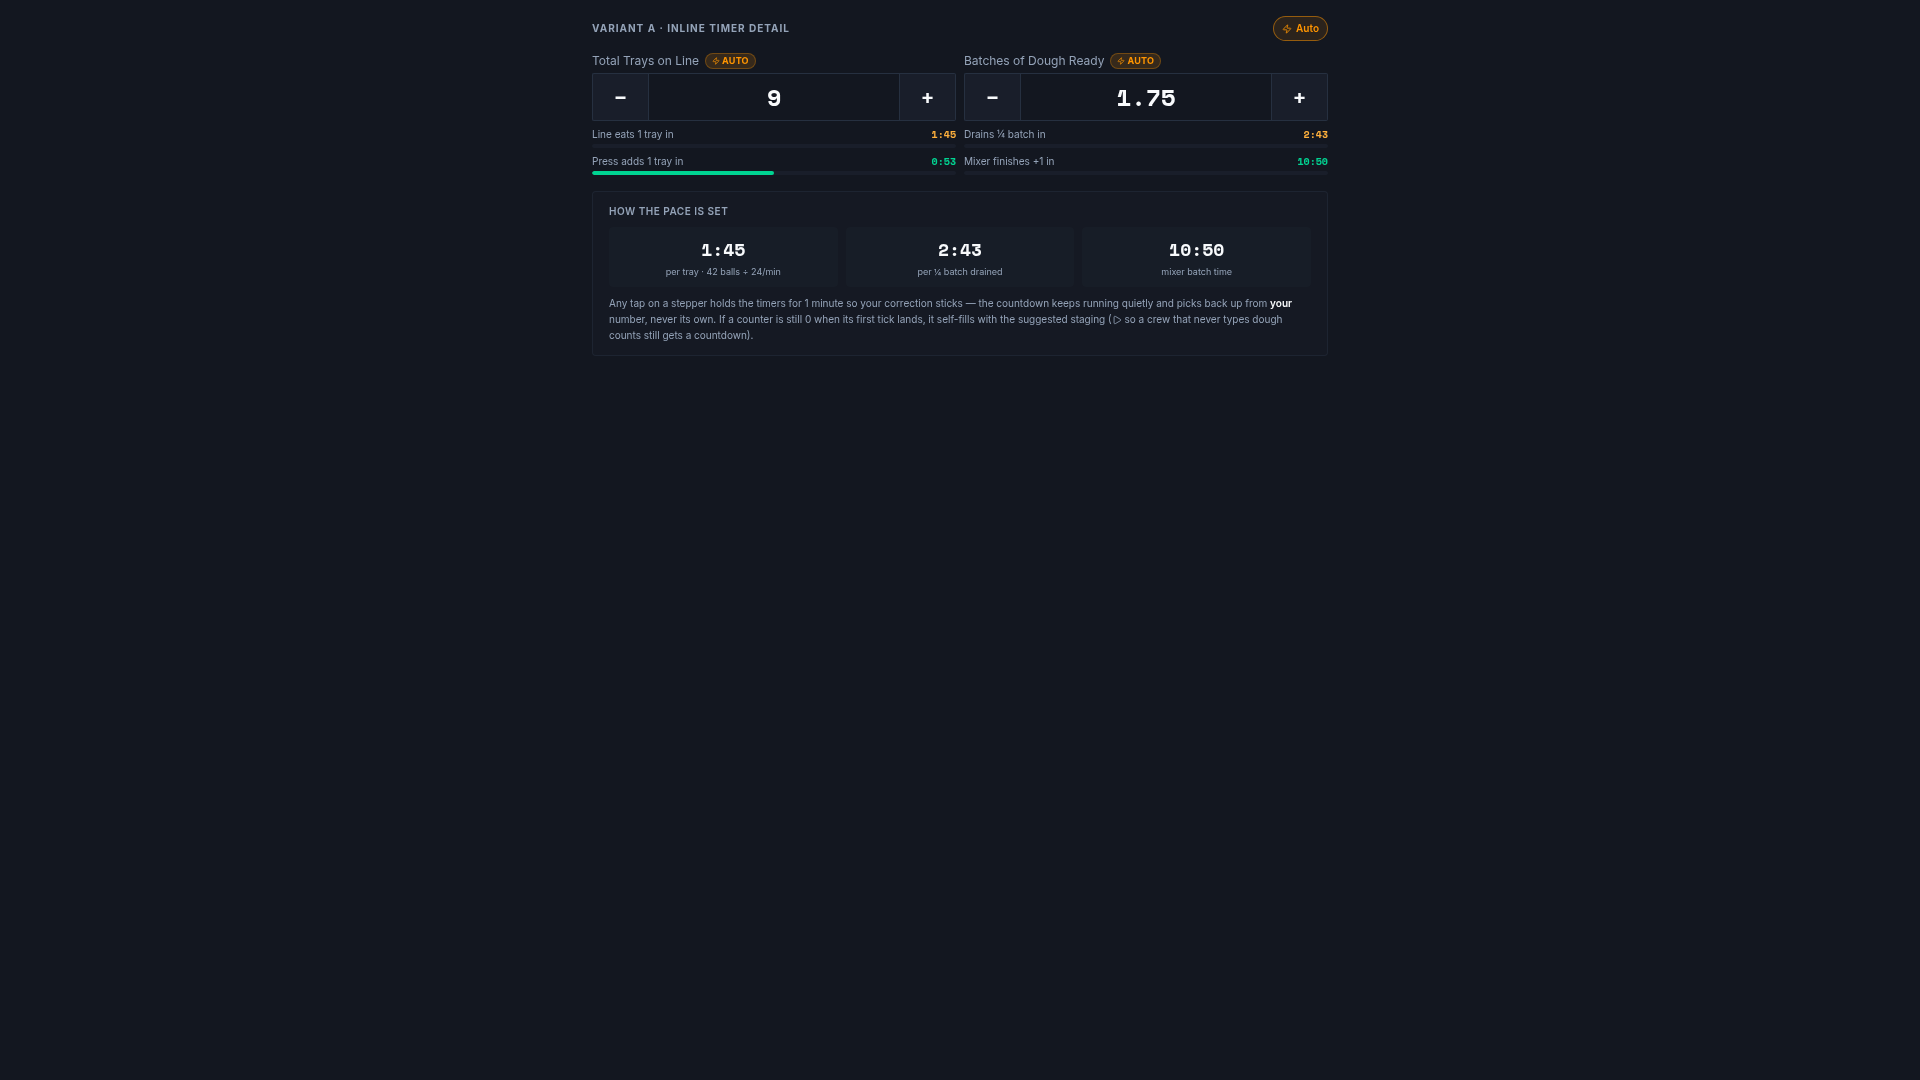
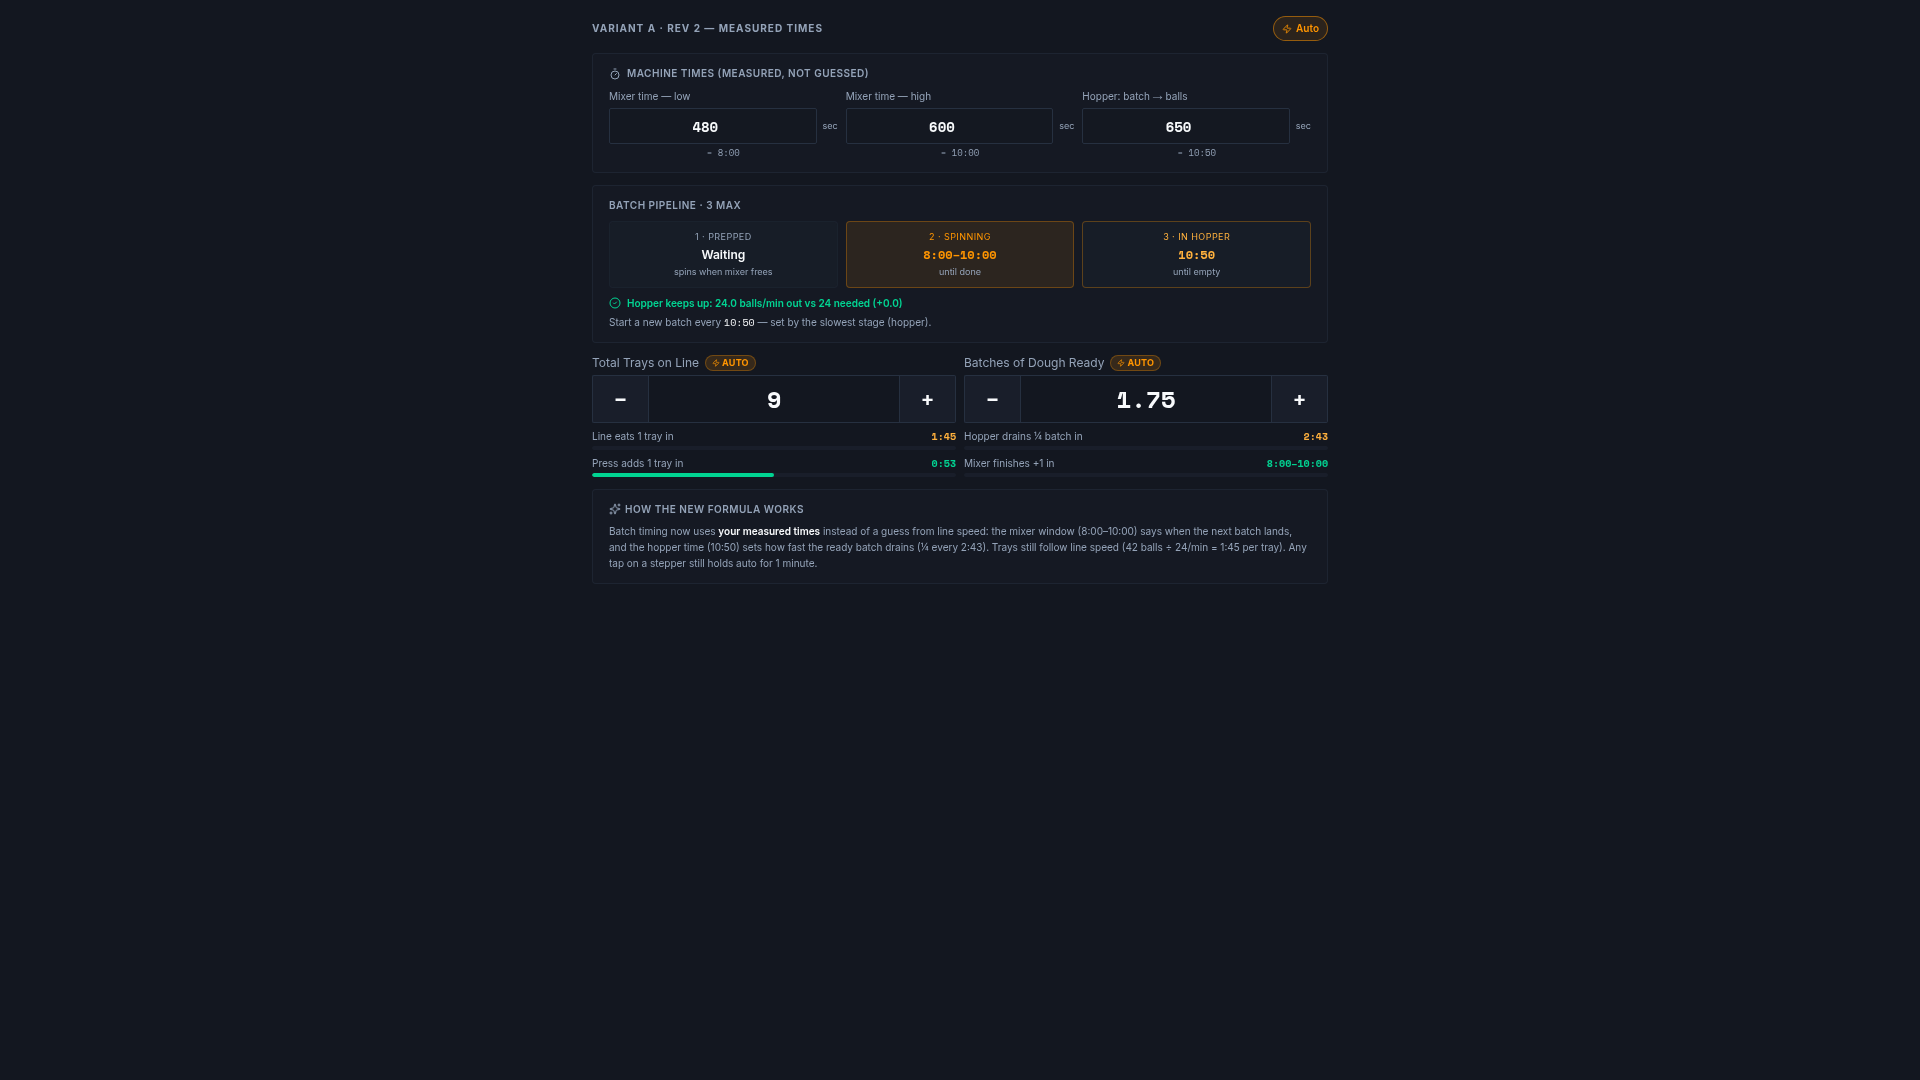
Add measured mixer and hopper times to dough tab timers
Introduce new input fields for mixer low/high and hopper times (in seconds) to improve the accuracy of dough processing calculations and display.

Replit-Commit-Author: Agent
Replit-Commit-Session-Id: 280a9ba2-7370-423b-ad6b-aa0dbc6b3488
Replit-Commit-Checkpoint-Type: full_checkpoint
Replit-Commit-Event-Id: c5127f72-77b3-4420-93dd-f78c3ea0da03
Replit-Commit-Screenshot-Url: https://storage.googleapis.com/screenshot-production-us-central1/de4fa38f-10e1-481d-ab62-4ad238a33ebf/280a9ba2-7370-423b-ad6b-aa0dbc6b3488/rUtaK6M
Replit-Helium-Checkpoint-Created: true

diff --git a/artifacts/mockup-sandbox/src/components/mockups/tab-dough/TimersInline.tsx b/artifacts/mockup-sandbox/src/components/mockups/tab-dough/TimersInline.tsx
@@ -1,21 +1,23 @@
 import { useEffect, useState } from "react";
-import { AlertTriangle, Pause, Play, Sparkles, Zap } from "lucide-react";
+import { CheckCircle2, Pause, Sparkles, Timer, Zap } from "lucide-react";
 import "./_group.css";
 
-/* ── Variant A: Inline Detail ──────────────────────────────────────────────
-   The dough steppers exactly as today, but each auto-tracked counter gets a
-   live countdown strip right underneath it: when the next auto tick lands,
-   what it will do (+1 from the press / −1 eaten by the line), and a thin
-   progress bar filling toward the tick. Cadences use the real engine math:
-   tray tick = perTray/ppm, batch drain = perBatch/ppm/4, mixer = perBatch/ppm. */
+/* ── Variant A (rev 2): Inline Detail + measured mixer/hopper times ────────
+   The dough steppers with live countdown strips, now driven by MEASURED
+   times instead of guesses:
+     • Mixer Time Low / High (seconds) — how long a batch actually spins
+     • Hopper Time (seconds) — how long the hopper takes to turn one batch
+       into doughballs
+   Pipeline is 3 batches max: 1 prepped to spin · 1 spinning · 1 in the
+   hopper being turned into doughballs. Tray cadence stays line-speed based
+   (perTray / ppm). */
 
 const calc = { ppm: 24, perTray: 42, perBatch: 260, traysNeeded: 18, batchesNeeded: 2.4 };
 
 const TRAY_PERIOD_S = (calc.perTray / calc.ppm) * 60; // 105 s
-const BATCH_DRAIN_S = (calc.perBatch / calc.ppm / 4) * 60; // ~162 s (quarter-batch)
-const MIXER_PERIOD_S = (calc.perBatch / calc.ppm) * 60; // ~650 s
 
 function fmtMS(totalSec: number) {
+  if (!Number.isFinite(totalSec)) return "—:—";
   const s = Math.max(0, Math.round(totalSec));
   return `${Math.floor(s / 60)}:${String(s % 60).padStart(2, "0")}`;
 }
@@ -31,11 +33,13 @@ function useNowSec() {
 
 function TickBar({
   label,
+  right,
   secLeft,
   periodSec,
   color,
 }: {
   label: string;
+  right?: string;
   secLeft: number;
   periodSec: number;
   color: string;
@@ -45,7 +49,7 @@ function TickBar({
     <div className="mt-1.5">
       <div className="flex items-center justify-between gap-2">
         <span className="text-[10px] text-muted-foreground">{label}</span>
-        <span className={`text-[10px] font-mono font-semibold tabular-nums ${color}`}>{fmtMS(secLeft)}</span>
+        <span className={`text-[10px] font-mono font-semibold tabular-nums ${color}`}>{right ?? fmtMS(secLeft)}</span>
       </div>
       <div className="h-1 rounded-full bg-muted/40 overflow-hidden mt-0.5">
         <div
@@ -53,6 +57,37 @@ function TickBar({
           style={{ width: `${pct}%`, transition: "width 1s linear" }}
         />
       </div>
+    </div>
+  );
+}
+
+function SecondsInput({
+  label,
+  value,
+  onChange,
+}: {
+  label: string;
+  value: number;
+  onChange: (v: number) => void;
+}) {
+  return (
+    <div className="min-w-0">
+      <label className="text-[10px] text-muted-foreground block truncate">{label}</label>
+      <div className="flex items-center gap-1.5 mt-1">
+        <input
+          type="number"
+          inputMode="numeric"
+          value={value}
+          onChange={e => {
+            const n = e.target.value === "" ? 0 : Number(e.target.value);
+            if (Number.isFinite(n) && n >= 0) onChange(n);
+          }}
+          onFocus={e => e.target.select()}
+          className="h-9 w-full min-w-0 rounded-md border border-input bg-background/50 text-center font-mono text-sm font-bold focus-visible:outline-none focus-visible:ring-1 focus-visible:ring-ring"
+        />
+        <span className="text-[9px] text-muted-foreground shrink-0">sec</span>
+      </div>
+      <p className="text-[9px] text-muted-foreground font-mono mt-0.5 text-center">= {fmtMS(value)}</p>
     </div>
   );
 }
@@ -65,8 +100,6 @@ function StepperField({
   onChange,
   min = 0,
   max,
-  suggestion,
-  onSuggest,
   onManualChange,
 }: {
   label: string;
@@ -76,33 +109,19 @@ function StepperField({
   onChange: (v: number) => void;
   min?: number;
   max?: number;
-  suggestion?: number | null;
-  onSuggest?: () => void;
   onManualChange?: () => void;
 }) {
   const atMax = max !== undefined && value >= max;
   return (
     <div>
-      <div className="flex items-center justify-between gap-2">
-        <label className="text-xs text-muted-foreground flex items-center gap-1.5">
-          {label}
-          {auto && (
-            <span className="flex items-center gap-0.5 text-[9px] font-bold uppercase tracking-wide px-1.5 py-px rounded-full bg-primary/15 border border-primary/30 text-primary">
-              <Zap className="w-2 h-2" /> Auto
-            </span>
-          )}
-        </label>
-        {suggestion !== null && suggestion !== undefined && suggestion !== value && onSuggest && (
-          <button
-            type="button"
-            onClick={onSuggest}
-            className="flex items-center gap-1 text-[10px] font-semibold px-2 py-0.5 rounded-full bg-primary/10 border border-primary/20 text-primary hover:bg-primary/20 transition-colors shrink-0"
-          >
-            <Sparkles className="w-2.5 h-2.5" />
-            Expected: {suggestion}
-          </button>
+      <label className="text-xs text-muted-foreground flex items-center gap-1.5">
+        {label}
+        {auto && (
+          <span className="flex items-center gap-0.5 text-[9px] font-bold uppercase tracking-wide px-1.5 py-px rounded-full bg-primary/15 border border-primary/30 text-primary">
+            <Zap className="w-2 h-2" /> Auto
+          </span>
         )}
-      </div>
+      </label>
       <div className="flex items-stretch mt-1">
         <button
           type="button"
@@ -148,58 +167,79 @@ export function TimersInline() {
   const [traysOnLine, setTraysOnLine] = useState(9);
   const [batchesReady, setBatchesReady] = useState(1.75);
 
-  const onManual = () => setSuppressUntil(Date.now() / 1000 + 60);
+  /* Measured machine times (seconds) — the new inputs */
+  const [mixerLowSec, setMixerLowSec] = useState(480); // 8:00 fastest spin
+  const [mixerHighSec, setMixerHighSec] = useState(600); // 10:00 slowest spin
+  const [hopperSec, setHopperSec] = useState(650); // batch → doughballs
 
+  const onManual = () => setSuppressUntil(Date.now() / 1000 + 60);
   const running = autoOn && !suppressed;
+
+  /* Tray cadence still comes from line speed */
   const trayLeft = TRAY_PERIOD_S - (elapsed % TRAY_PERIOD_S);
   const trayProdLeft = TRAY_PERIOD_S - ((elapsed + TRAY_PERIOD_S / 2) % TRAY_PERIOD_S);
-  const drainLeft = BATCH_DRAIN_S - (elapsed % BATCH_DRAIN_S);
-  const mixerLeft = MIXER_PERIOD_S - (elapsed % MIXER_PERIOD_S);
 
-  /* Simulated ticks so the mockup visibly moves (real app: useAutoTrack).
-     Mirrors the engine: consumption ticks drain, and — while the run still
-     has a dough deficit — production ticks add (+1 tray from the press,
-     offset half a cycle; +1 batch when the mixer finishes a full cycle). */
-  const hasDeficit = calc.traysNeeded > 0 && calc.batchesNeeded > 0; // mock deficit stays open
+  /* Batch cadence now comes from the MEASURED times (all guarded ≥ 1s so a
+     blank/zero input can never produce a divide-by-zero or NaN countdown).
+     The simulated spin cycle runs on the HIGH time — a batch is GUARANTEED
+     by the high time, and the low–high window shows when it could land. */
+  const safeLow = Math.max(1, mixerLowSec);
+  const safeHigh = Math.max(safeLow, Math.max(1, mixerHighSec));
+  const safeHopper = Math.max(1, hopperSec);
+  const drainQuarterSec = safeHopper / 4;
+  const spinElapsed = elapsed % safeHigh; // simulated current spin progress
+  const mixerLowLeft = Math.max(0, safeLow - spinElapsed);
+  const mixerHighLeft = Math.max(0, safeHigh - spinElapsed);
+  const drainLeft = drainQuarterSec - (elapsed % drainQuarterSec);
+  const hopperEmptyLeft = safeHopper - (elapsed % safeHopper);
+
+  /* Accuracy check: can the hopper keep the line fed? */
+  const hopperBallsPerMin = (calc.perBatch / safeHopper) * 60;
+  const hopperMargin = hopperBallsPerMin - calc.ppm;
+  const hopperKeepsUp = hopperMargin >= 0;
+  /* Bottleneck stage sets how often you must start a new batch */
+  const bottleneckSec = Math.max(safeHigh, safeHopper);
+
+  /* Simulated ticks so the mockup visibly moves (real app: useAutoTrack) */
+  const hasDeficit = calc.traysNeeded > 0 && calc.batchesNeeded > 0;
   useEffect(() => {
     if (!running) return;
-    const id = setInterval(() => {
-      setTraysOnLine(t => Math.max(0, t - 1)); // line eats a tray
-    }, TRAY_PERIOD_S * 1000);
+    const id = setInterval(() => setTraysOnLine(t => Math.max(0, t - 1)), TRAY_PERIOD_S * 1000);
     return () => clearInterval(id);
   }, [running]);
   useEffect(() => {
     if (!running || !hasDeficit) return;
-    // Press production: first tick lands half a period out of phase.
     let id: ReturnType<typeof setInterval> | undefined;
     const t0 = setTimeout(() => {
-      setTraysOnLine(t => (t < 74 ? Math.min(74, t + 1) : t));
-      id = setInterval(() => {
-        setTraysOnLine(t => (t < 74 ? Math.min(74, t + 1) : t));
-      }, TRAY_PERIOD_S * 1000);
+      setTraysOnLine(t => Math.min(74, t + 1));
+      id = setInterval(() => setTraysOnLine(t => Math.min(74, t + 1)), TRAY_PERIOD_S * 1000);
     }, (TRAY_PERIOD_S / 2) * 1000);
     return () => { clearTimeout(t0); if (id) clearInterval(id); };
   }, [running, hasDeficit]);
   useEffect(() => {
     if (!running) return;
-    const id = setInterval(() => {
-      setBatchesReady(b => Math.max(0, Math.round((b - 0.25) * 100) / 100)); // quarter-batch drain
-    }, BATCH_DRAIN_S * 1000);
+    const id = setInterval(
+      () => setBatchesReady(b => Math.max(0, Math.round((b - 0.25) * 100) / 100)),
+      drainQuarterSec * 1000,
+    );
     return () => clearInterval(id);
-  }, [running]);
+  }, [running, drainQuarterSec]);
   useEffect(() => {
     if (!running || !hasDeficit) return;
-    const id = setInterval(() => {
-      setBatchesReady(b => (b < 3 ? Math.min(3, Math.round((b + 1) * 100) / 100) : b)); // mixer +1
-    }, MIXER_PERIOD_S * 1000);
+    // Mixer +1 lands on the same cycle the countdown window runs on (the
+    // high time), so the display and the tick always agree.
+    const id = setInterval(
+      () => setBatchesReady(b => Math.min(3, Math.round((b + 1) * 100) / 100)),
+      safeHigh * 1000,
+    );
     return () => clearInterval(id);
-  }, [running, hasDeficit]);
+  }, [running, hasDeficit, safeHigh]);
 
   return (
     <div className="dough-tab-scope dark min-h-screen">
       <div className="max-w-3xl mx-auto px-4 py-4">
         <div className="flex items-center justify-between mb-3">
-          <p className="text-[10px] font-bold uppercase tracking-widest text-muted-foreground">Variant A · Inline timer detail</p>
+          <p className="text-[10px] font-bold uppercase tracking-widest text-muted-foreground">Variant A · rev 2 — measured times</p>
           <button
             type="button"
             onClick={() => setAutoOn(a => !a)}
@@ -217,15 +257,62 @@ export function TimersInline() {
             <span className="text-amber-400 font-semibold">
               Manual override active · auto resumes in {fmtMS(suppressedSecLeft)}
             </span>
-            <button
-              type="button"
-              onClick={() => setSuppressUntil(0)}
-              className="text-amber-400 hover:text-amber-300 font-semibold ml-2"
-            >
+            <button type="button" onClick={() => setSuppressUntil(0)} className="text-amber-400 hover:text-amber-300 font-semibold ml-2">
               Resume now
             </button>
           </div>
         )}
+
+        {/* ── NEW: measured machine times ── */}
+        <div className="rounded-lg border border-border/50 bg-card/50 px-4 py-3 mb-3">
+          <p className="text-[10px] font-semibold uppercase tracking-wider text-muted-foreground flex items-center gap-1.5 mb-2">
+            <Timer className="w-3 h-3" /> Machine Times (measured, not guessed)
+          </p>
+          <div className="grid grid-cols-3 gap-2">
+            <SecondsInput label="Mixer time — low" value={mixerLowSec} onChange={setMixerLowSec} />
+            <SecondsInput label="Mixer time — high" value={mixerHighSec} onChange={setMixerHighSec} />
+            <SecondsInput label="Hopper: batch → balls" value={hopperSec} onChange={setHopperSec} />
+          </div>
+          {mixerHighSec < mixerLowSec && (
+            <p className="text-[10px] text-amber-400 font-semibold mt-1.5">High time should be ≥ low time</p>
+          )}
+        </div>
+
+        {/* ── NEW: 3-batch pipeline ── */}
+        <div className="rounded-lg border border-border/50 bg-card/50 px-4 py-3 mb-3">
+          <p className="text-[10px] font-semibold uppercase tracking-wider text-muted-foreground mb-2">
+            Batch Pipeline · 3 max
+          </p>
+          <div className="grid grid-cols-3 gap-2">
+            <div className="bg-muted/20 rounded-lg p-2 text-center border border-border/30">
+              <p className="text-[9px] uppercase tracking-wider text-muted-foreground">1 · Prepped</p>
+              <p className="text-xs font-semibold text-foreground mt-1">Waiting</p>
+              <p className="text-[9px] text-muted-foreground mt-0.5">spins when mixer frees</p>
+            </div>
+            <div className="bg-primary/10 rounded-lg p-2 text-center border border-primary/30">
+              <p className="text-[9px] uppercase tracking-wider text-primary">2 · Spinning</p>
+              <p className="text-xs font-mono font-bold text-primary mt-1 tabular-nums">
+                {mixerLowLeft <= 0 ? `any sec — by ${fmtMS(mixerHighLeft)}` : `${fmtMS(mixerLowLeft)}–${fmtMS(mixerHighLeft)}`}
+              </p>
+              <p className="text-[9px] text-muted-foreground mt-0.5">until done</p>
+            </div>
+            <div className="bg-muted/20 rounded-lg p-2 text-center border border-orange-500/30">
+              <p className="text-[9px] uppercase tracking-wider text-orange-400">3 · In Hopper</p>
+              <p className="text-xs font-mono font-bold text-orange-400 mt-1 tabular-nums">{fmtMS(hopperEmptyLeft)}</p>
+              <p className="text-[9px] text-muted-foreground mt-0.5">until empty</p>
+            </div>
+          </div>
+          <div className={`flex items-center gap-1.5 mt-2 text-[10px] font-semibold ${hopperKeepsUp ? "text-emerald-400" : "text-amber-400"}`}>
+            <CheckCircle2 className="w-3 h-3 shrink-0" />
+            {hopperKeepsUp
+              ? `Hopper keeps up: ${hopperBallsPerMin.toFixed(1)} balls/min out vs ${calc.ppm} needed (+${hopperMargin.toFixed(1)})`
+              : `Hopper too slow: ${hopperBallsPerMin.toFixed(1)} balls/min out vs ${calc.ppm} needed (${hopperMargin.toFixed(1)})`}
+          </div>
+          <p className="text-[10px] text-muted-foreground mt-1">
+            Start a new batch every <span className="font-mono text-foreground">{fmtMS(bottleneckSec)}</span> — set by the
+            slowest stage ({mixerHighSec >= hopperSec ? "mixer high time" : "hopper"}).
+          </p>
+        </div>
 
         <div className="grid grid-cols-2 gap-2">
           <div>
@@ -244,7 +331,7 @@ export function TimersInline() {
               </>
             ) : (
               <p className="text-[10px] text-muted-foreground mt-1.5 flex items-center gap-1">
-                <Pause className="w-2.5 h-2.5" /> Timers paused — counting stopped
+                <Pause className="w-2.5 h-2.5" /> Timers paused
               </p>
             )}
           </div>
@@ -260,38 +347,38 @@ export function TimersInline() {
             />
             {running ? (
               <>
-                <TickBar label="Drains ¼ batch in" secLeft={drainLeft} periodSec={BATCH_DRAIN_S} color="text-orange-400" />
-                <TickBar label="Mixer finishes +1 in" secLeft={mixerLeft} periodSec={MIXER_PERIOD_S} color="text-emerald-400" />
+                <TickBar
+                  label="Hopper drains ¼ batch in"
+                  secLeft={drainLeft}
+                  periodSec={drainQuarterSec}
+                  color="text-orange-400"
+                />
+                <TickBar
+                  label="Mixer finishes +1 in"
+                  right={mixerLowLeft <= 0 ? `by ${fmtMS(mixerHighLeft)}` : `${fmtMS(mixerLowLeft)}–${fmtMS(mixerHighLeft)}`}
+                  secLeft={mixerHighLeft}
+                  periodSec={mixerHighSec}
+                  color="text-emerald-400"
+                />
               </>
             ) : (
               <p className="text-[10px] text-muted-foreground mt-1.5 flex items-center gap-1">
-                <Pause className="w-2.5 h-2.5" /> Timers paused — counting stopped
+                <Pause className="w-2.5 h-2.5" /> Timers paused
               </p>
             )}
           </div>
         </div>
 
-        <div className="mt-4 rounded-lg border border-border/50 bg-card/50 px-4 py-3 space-y-2">
-          <p className="text-[10px] font-semibold uppercase tracking-wider text-muted-foreground">How the pace is set</p>
-          <div className="grid grid-cols-3 gap-2 text-center">
-            <div className="bg-muted/20 rounded-lg p-2">
-              <p className="text-lg font-mono font-bold text-foreground tabular-nums">{fmtMS(TRAY_PERIOD_S)}</p>
-              <p className="text-[9px] text-muted-foreground mt-0.5">per tray · {calc.perTray} balls ÷ {calc.ppm}/min</p>
-            </div>
-            <div className="bg-muted/20 rounded-lg p-2">
-              <p className="text-lg font-mono font-bold text-foreground tabular-nums">{fmtMS(BATCH_DRAIN_S)}</p>
-              <p className="text-[9px] text-muted-foreground mt-0.5">per ¼ batch drained</p>
-            </div>
-            <div className="bg-muted/20 rounded-lg p-2">
-              <p className="text-lg font-mono font-bold text-foreground tabular-nums">{fmtMS(MIXER_PERIOD_S)}</p>
-              <p className="text-[9px] text-muted-foreground mt-0.5">mixer batch time</p>
-            </div>
-          </div>
+        <div className="mt-3 rounded-lg border border-border/50 bg-card/50 px-4 py-3">
+          <p className="text-[10px] font-semibold uppercase tracking-wider text-muted-foreground mb-1.5 flex items-center gap-1">
+            <Sparkles className="w-3 h-3" /> How the new formula works
+          </p>
           <p className="text-[10px] text-muted-foreground leading-relaxed">
-            Any tap on a stepper holds the timers for 1 minute so your correction sticks — the countdown keeps
-            running quietly and picks back up from <span className="text-foreground font-semibold">your</span> number, never its own.
-            If a counter is still 0 when its first tick lands, it self-fills with the suggested staging{" "}
-            (<Play className="inline w-2.5 h-2.5 -mt-px" /> so a crew that never types dough counts still gets a countdown).
+            Batch timing now uses <span className="text-foreground font-semibold">your measured times</span> instead of a
+            guess from line speed: the mixer window ({fmtMS(mixerLowSec)}–{fmtMS(mixerHighSec)}) says when the next batch
+            lands, and the hopper time ({fmtMS(hopperSec)}) sets how fast the ready batch drains (¼ every{" "}
+            {fmtMS(drainQuarterSec)}). Trays still follow line speed ({calc.perTray} balls ÷ {calc.ppm}/min ={" "}
+            {fmtMS(TRAY_PERIOD_S)} per tray). Any tap on a stepper still holds auto for 1 minute.
           </p>
         </div>
       </div>
